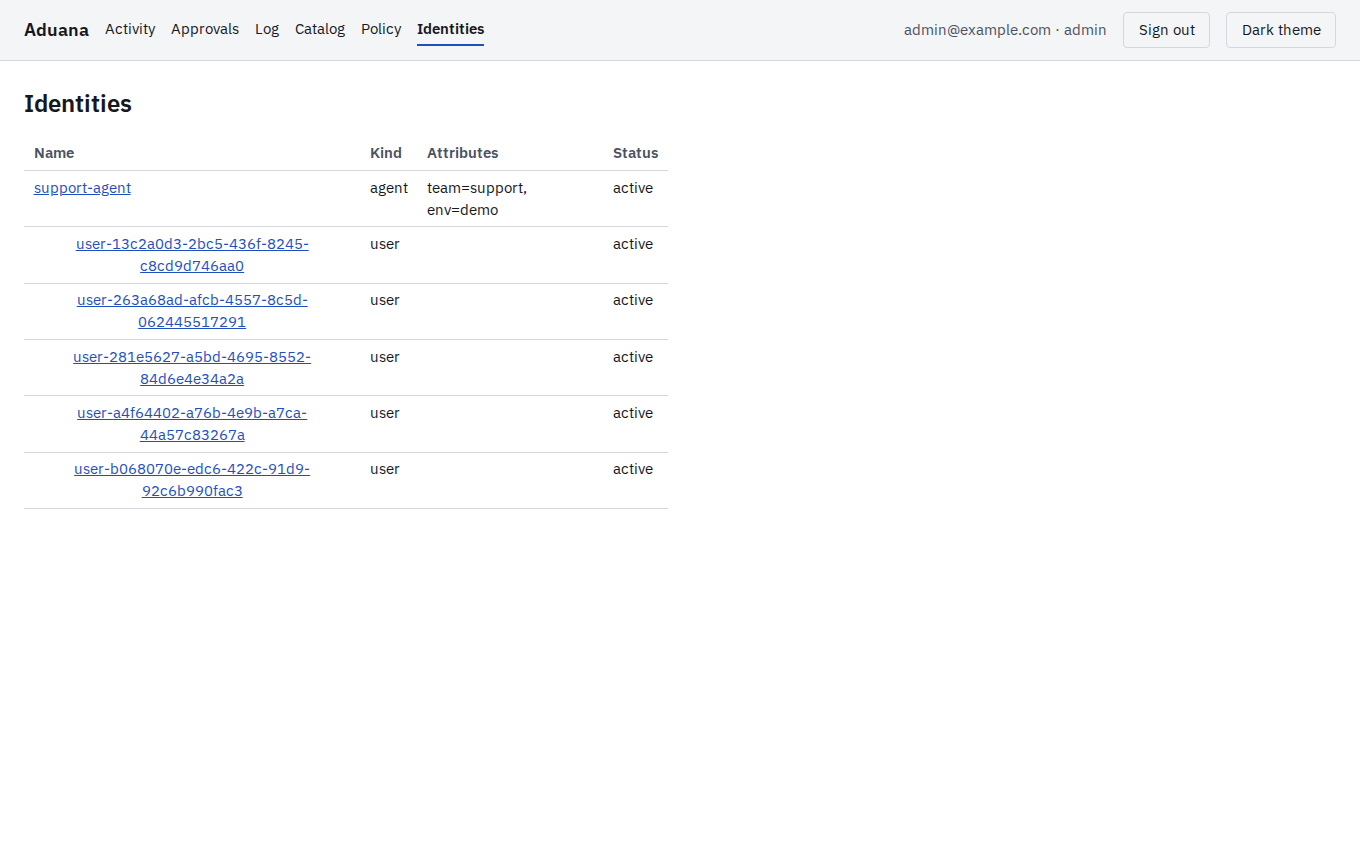
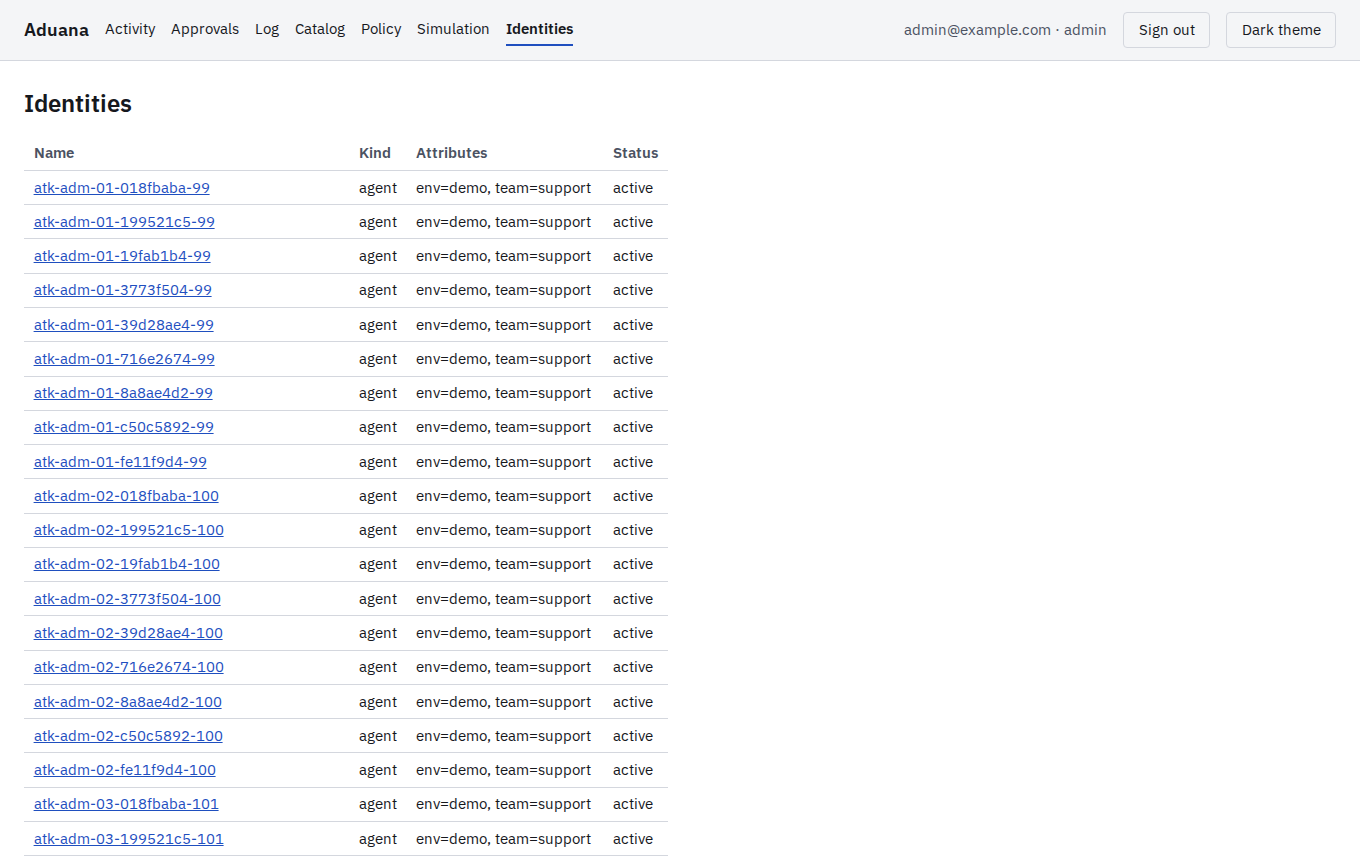
docs: phase 10 simulation and replay

Changed region(s): [[0.0309, 0.2116, 0.4941, 0.9977], [0.3088, 0.0302, 0.4324, 0.0605], [0.2471, 0.1512, 0.3706, 0.1814]]

diff --git a/PROGRESS.md b/PROGRESS.md
@@ -12,7 +12,7 @@
 | 7 | Redaction, injection flags and taint | done |
 | 8 | Limits, idempotency and stdio servers | done |
 | 9 | Console | done |
-| 10 | Simulation and replay | not started |
+| 10 | Simulation and replay | done |
 | 11 | Attack bench, performance and reports | done |
 | 12 | Packaging, documentation and publication | not started |
 
@@ -222,8 +222,8 @@ Done on branch `phase-09-console`, merged into `main`.
 
 ## Phase 11: Attack bench, performance and reports
 
-Done on branch `phase-11-attacks`, merged into `main`. Phase 10 (simulation and replay) is postponed
-after Phase 12, as the plan's cut line allows.
+Done on branch `phase-11-attacks`, merged into `main`, before Phase 10 (the plan's cut line puts
+simulation after the attack bench).
 
 - Tests first (`AttackBenchTest` 5, `AuditLogTest` +1, `test_check_readme_numbers.py` 5): `7163f5c`.
 - `aduana attacks run`, 91 cases, `make attacks`, `make attacks-check`, CI: `3779a7f`.
@@ -238,3 +238,19 @@ after Phase 12, as the plan's cut line allows.
 | CA11.2 100 % of deterministic cases stopped; heuristic ones reported with their real rate and the ones that escape | met: 78 of 78 deterministic; heuristic 7 of 13, the six escapes listed in `attacks/REPORT.md` |
 | CA11.3 published report with measured numbers; added p99 at most 50 ms at 200 req/s (objective 15 ms) | met: 15.5 ms added p99 at 200 req/s (`bench/REPORT.md`); the 15 ms objective is missed by 0.5 ms |
 | CA11.4 CI fails if a README number is edited by hand | met: `check_readme_numbers.py` in `make lint`; its test shows a hand-edited number failing |
+
+## Phase 10: Simulation and replay
+
+Done on branch `phase-10-simulation`, merged into `main` after Phase 11.
+
+- Tests first: `SimulationTest` 5, `AuditLogTest` +1 (head), `test_build_replay.py` 4, console specs and
+  two Playwright flows.
+- `policy/PolicySimulator` (ADR 23), `ArgumentObligations` shared with the live pipeline,
+  `POST /api/v1/policy/simulate`, `GET /api/v1/audit/head`, `aduana policy simulate`, the Simulation
+  screen, `scripts/build_replay.py`, `make replay`, `replay/index.html`.
+
+| CA | Result |
+|---|---|
+| CA10.1 the active bundle against its own traffic gives zero differences | met: `the_active_policy_against_its_own_traffic_changes_nothing`; on the demo stack 9 476 decisions, 0 changed (Playwright flow too) |
+| CA10.2 conditions on redacted arguments are unknown, reported apart, never unchanged | met: `conditions_on_redacted_arguments_are_unknown_never_unchanged`; 24 refunds unknown on the demo stack, listed with `$.destination_iban`; outcomes that cannot depend on the redacted value stay known (`a_redacted_value_that_cannot_change_the_outcome_does_not_make_it_unknown`) |
+| CA10.3 the replay page works opened without a server | met: Playwright opens `file:///src/replay/index.html`, steps through it, and sees no request other than `file:` |

diff --git a/docs/HANDOFF.md b/docs/HANDOFF.md
@@ -1,6 +1,6 @@
 # Handoff
 
-Rewritten at the end of every session. Last update: 2026-11-15, end of Phase 11.
+Rewritten at the end of every session. Last update: 2026-11-15, end of Phase 10 (done after Phase 11).
 
 ## What exists
 
@@ -46,10 +46,14 @@ Phase 11 added the attack bench (`cli/.../attacks/`, `attacks/cases/`, `make att
 `make attacks-check`), the latency benchmark (`bench/Bench.java`, `make bench`), group commit for the
 log (ADR 21), `docs/threat-model.md`, `scripts/check_readme_numbers.py` and ADR 22.
 
-Next: Phase 12 (single image already serves the console; add `deploy/compose.prod.yaml`, the three-command
-quick start, the final README per plan §11 with numbers quoted from the reports, `docs/case-study.md`,
-`docs/video-script.md`, the Pages workflow for `replay/`, `release.yml`, `make release-check`, Trivy
-scan), then Phase 10 (policy simulation and the static `replay/` page).
+Phase 10 added `policy/PolicySimulator` (ADR 23), `POST /api/v1/policy/simulate`, `GET /api/v1/audit/head`,
+`aduana policy simulate`, the Simulation screen, `scripts/build_replay.py`, `make replay` and
+`replay/index.html` (regenerate it after `make demo`).
+
+Next: Phase 12 (the image already serves the console; add the CLI to it, `deploy/compose.prod.yaml`,
+the three-command quick start, the final README per plan §11 with numbers quoted from the reports,
+`docs/case-study.md`, `docs/video-script.md`, the Pages workflow for `replay/`, `release.yml`,
+`make release-check`, Trivy scan).
 
 ## Known traps
 
@@ -89,6 +93,9 @@ scan), then Phase 10 (policy simulation and the static `replay/` page).
   users per run; `make bench` creates its own agent. Never run load through the demo `support-agent`:
   its counters persist (CA8.1) and `make e2e` would be rate limited for a minute.
 - A new attack case must be stable across runs: the report may only contain codes, never ids or times.
+- The demo log is large after `make attacks` and `make bench` (157 000+ entries): full chain
+  verification takes seconds; use `/api/v1/audit/head` when only the end of the log is needed.
+- Angular here is zoneless: a field set after an `await` does not repaint; use a signal.
 - `@Value` cannot bind an indexed list (`x[0]`); stdio's allow-list is one comma-separated property.
 - Spring's String-to-URI conversion of `aduana.upstreams[*].endpoint` percent-encodes `%`: in YAML write
   stdio arguments unencoded (`stdio:/usr/bin/node?arg=/app/server.js`); through the API send a valid URI.

diff --git a/docs/adr/0023-simulation-over-a-redacted-log.md b/docs/adr/0023-simulation-over-a-redacted-log.md
@@ -1,0 +1,43 @@
+# ADR 0023: Policy simulation over a redacted log
+
+- Status: accepted
+- Date: 2026-11-15
+
+## Context
+
+Plan Phase 10 asks to replay logged decisions against a candidate policy. The log keeps arguments
+redacted (ADR 19), so a condition such as `destination_iban matches '^XX'` cannot be evaluated on
+`[REDACTED:iban:XX20…6001]`. CA10.2 asks that such conditions count as unknown, reported apart, never
+as unchanged.
+
+## Decision
+
+- `POST /api/v1/policy/simulate` (admin) and `aduana policy simulate <dir> --url …` replay the
+  `CALL_DECIDED` entries of a range (the newest 20 000 entries by default) without loading the
+  candidate. The answer names the range, counts changed, unchanged and unknown decisions, groups the
+  changes by the candidate's matching rules with up to three example entries, and lists the unknown ones
+  with the redacted paths they depend on.
+- A call context is rebuilt from the entry: the principal's and the tool's facts as they are now, the
+  logged `FLOW_FROM_UNTRUSTED` and `CONTEXT_TAINTED` flags, and the logged (redacted) arguments.
+  Detectors that fired are recovered from the redaction placeholders, so `deny_args_containing` applies
+  as it did live.
+- A rule that could apply and has a condition on a redacted value is uncertain. The candidate is
+  evaluated for every combination of uncertain rules (each either matching without those conditions or
+  not matching); the decision is known only when every combination gives the same effect. With more than
+  ten uncertain rules the decision is unknown outright.
+
+## Consequences
+
+Measured on the demo stack (`docs/evidence/phase-10.md`): the active bundle over its own traffic gives no
+change; a candidate that denies every refund changes 27 decisions and leaves none unknown, although every
+refund's IBAN is redacted, because denying does not depend on it.
+
+Facts are read as they are now: a principal whose attributes changed, or a tool whose metadata changed,
+since a decision is simulated with today's facts. A principal or tool that no longer exists makes the
+decision unknown.
+
+## Alternatives considered
+
+Storing arguments in clear for simulation: a second store of personal data (ADR 19). Counting every
+decision that touches a redacted value as unknown: true but useless for candidates that do not depend on
+those values.

diff --git a/docs/evidence/phase-10.md b/docs/evidence/phase-10.md
@@ -1,0 +1,43 @@
+# Phase 10 evidence
+
+Run on 2026-11-15, on the demo stack after `make demo` (the log holds 157 185 entries, most from the
+attack bench and the latency benchmark).
+
+```
+$ make test-gateway      SimulationTest 5, AuditLogTest +1 (head), RouteAccessTest: passed
+$ make test-console      22 tests, 0 failures; lines 95.76 %
+$ make test-scripts      test_build_replay.py 4: passed
+$ make replay            build_replay: 40 steps written to replay/index.html
+$ make console-e2e       11 passed (adds: replay opened from disk, simulation of the active policy)
+```
+
+Simulation of the active bundle over its own traffic (CA10.1), newest 20 000 entries:
+
+```
+$ aduana policy simulate demo/policy --url http://gateway:8080
+seq 137186 to 157185, 9476 decisions: 0 change, 9452 unchanged, 24 unknown
+  unknown seq 157023 payments__refund: REDACTED_ARGUMENT $.destination_iban
+  …
+```
+
+The 24 unknown decisions are refunds whose outcome depends on `destination_iban matches '^XX'`, and the
+log keeps the IBAN redacted (CA10.2: reported apart, not counted as unchanged; `SimulationTest`
+checks the same on its own traffic).
+
+A candidate that adds a rule denying every refund:
+
+```
+seq 137186 to 157185, 9476 decisions: 27 change, 9449 unchanged, 0 unknown
+  require_approval -> deny x24 by candidate-no-refunds-at-all
+  require_approval -> deny x3 by untrusted-flow-into-side-effects, candidate-no-refunds-at-all
+```
+
+Denying does not depend on the redacted IBAN, so no decision is unknown (ADR 23).
+
+Replay page (CA10.3): `replay/index.html` is one file with its data, styles and script inline; the
+Playwright flow opens it as `file:///src/replay/index.html`, steps with the button and the arrow key,
+and checks that the page made no request other than `file:`.
+
+Fixed while testing: the activity screen called the full chain verification only to learn the newest
+seq (6.5 s with 157 138 entries); it now uses `GET /api/v1/audit/head`, and the log screen shows entries
+while the verification runs.

diff --git a/README.md b/README.md
@@ -32,7 +32,7 @@ make test    # every test suite
 | 7 | Redaction, injection flags and taint | done |
 | 8 | Limits, idempotency and stdio servers | done |
 | 9 | Console | done |
-| 10 | Simulation and replay | postponed (cut line) |
+| 10 | Simulation and replay | done |
 | 11 | Attack bench, performance and reports | done |
 | 12 | Packaging, documentation and publication | not started |
 
